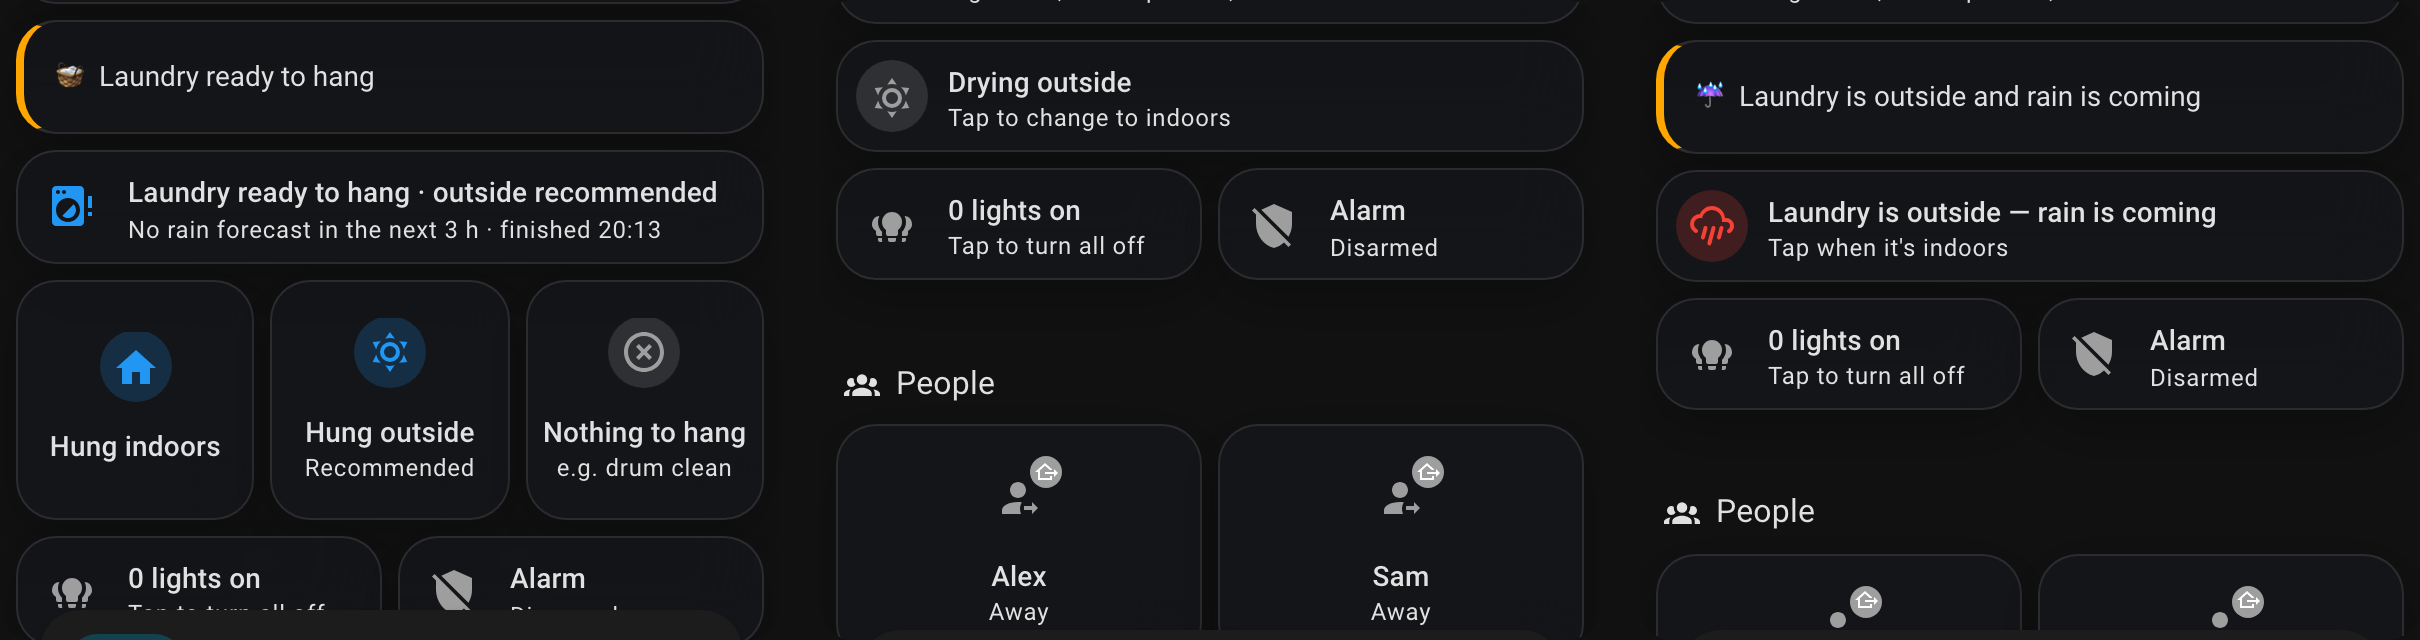
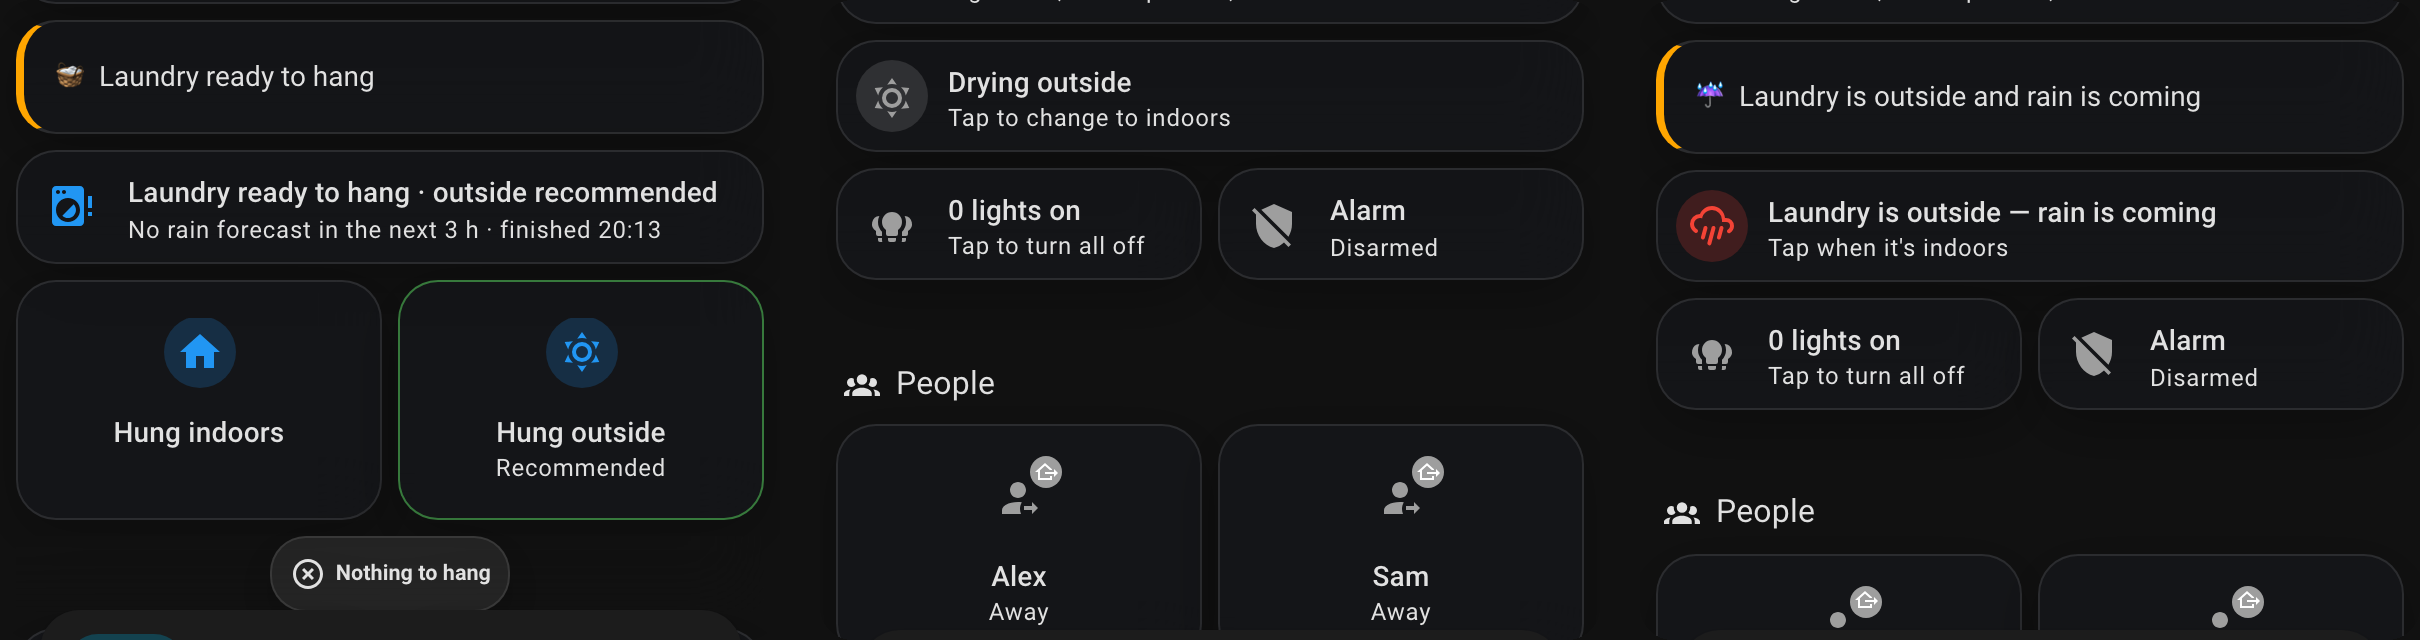
Laundry cards: two equal choices with a labelled recommendation, Nothing to hang as a chip (#19)
The review's verdict on a Hung pop-up: **no**. A pop-up on one screen
only needs browser_mod or Bubble Card, which would be a new required
dependency, and it adds a tap. Instead, this makes the inline choice
clearer.

![Phone: ready to hang → drying outside →
rain](https://github.com/davidteles/ha-wall-panel-kit/blob/feat/laundry-highlight/docs/images/laundry-sequence.png?raw=true)

## What changes
- **Hung indoors / Hung outside** are the same size, half each.
- **The recommended one** says *Recommended* and has a subtle border
(card-mod), so it doesn't rely on colour alone. With no reliable
forecast, neither is highlighted. Nothing is preselected: only a tap
confirms.
- **Nothing to hang** becomes a smaller chip and keeps its confirmation.
- **Every button passes `step`:** `hung` for answers, `move` on the
rack. A late tap can't overwrite a phone answer. This needs
ha-blueprints' **Laundry hung** with `step` (davidteles/ha-blueprints,
fix/laundry-hung-step). Without it, the old behaviour stays.
- **Docs:** `docs/laundry.md` text and screenshot updated.

## Tested
- 57 tests pass locally, including that both choices are the same size,
the recommendation is a label (not a selection), and every button's step
is right.
- Screenshots from the sample home, for outside, indoors and unknown, on
tablet and phone.
- The same layout runs at home (iPad, Kiosk and Phone).

🤖 Generated with [Claude Code](https://claude.com/claude-code)

---------

diff --git a/tools/render.py b/tools/render.py
@@ -359,9 +359,12 @@ def _state(entity: str, state) -> dict:
 
 
 def _laundry_button(name: str, icon: str, place: str, script: str, visibility: list, color: str = "blue",
-                    secondary: str = "", columns: int = 4, confirm: str | None = None) -> dict:
-    """A button with no `entity`: tapping its icon can never toggle a helper by accident."""
-    action = {"action": "perform-action", "perform_action": script, "data": {"place": place}}
+                    secondary: str = "", columns: int = 4, confirm: str | None = None, step: str = "hung") -> dict:
+    """A button with no `entity`: tapping its icon can never toggle a helper by accident.
+
+    `step` tells the Laundry hung script what the tap means: "hung" (the answer, only while waiting) or
+    "move" (where it's drying, only once on the rack), so a late tap can't overwrite an answer."""
+    action = {"action": "perform-action", "perform_action": script, "data": {"place": place, "step": step}}
     if confirm:
         action["confirmation"] = {"text": confirm}
     card = {"type": "custom:mushroom-template-card", "primary": name, "icon": icon, "color": color,
@@ -397,12 +400,25 @@ def laundry_cards(home: dict) -> list[dict]:
         cards[0].update({"secondary": "Tap when it's out of the machine" + finished, "tap_action": off, "icon_tap_action": off})
         return cards
     script, place = l["script"], l["place"]
-    rec = lambda choice, other: adv + f"{{{{ 'Recommended' if a[0] == '{choice}' else '{other}' }}}}"
+
+    def choice(name: str, icon: str, place_name: str, advice: str) -> dict:
+        """Indoors / Outside: the same size; the recommended one gets a 'Recommended' label and a subtle
+        accent border (card-mod). Advice only: nothing is preselected, a tap is the only confirmation."""
+        b = _laundry_button(name, icon, place_name, script, waiting, columns=6,
+                            secondary=adv + f"{{{{ 'Recommended' if a[0] == '{advice}' else '\u200b' }}}}")  # same height either way: a zero-width space survives template trimming
+        b["card_mod"] = {"style": adv + "ha-card { {% if a[0] == '" + advice + "' %}border: 1.5px solid rgba(76, 175, 80, 0.65) !important;{% endif %} }"}
+        return b
+
+    nothing = {"action": "perform-action", "perform_action": script, "data": {"place": "Not hung", "step": "hung"},
+               "confirmation": {"text": "Nothing to hang from this cycle?"}}
     cards += [
-        _laundry_button("Hung indoors", "mdi:home", "Indoors", script, waiting, secondary=rec("indoors", "")),
-        _laundry_button("Hung outside", "mdi:weather-sunny", "Outside", script, waiting, secondary=rec("outdoors", "")),
-        _laundry_button("Nothing to hang", "mdi:close-circle-outline", "Not hung", script, waiting, color="grey",
-                        secondary="e.g. drum clean", confirm="Nothing to hang from this cycle?"),
+        choice("Hung indoors", "mdi:home", "Indoors", "indoors"),
+        choice("Hung outside", "mdi:weather-sunny", "Outside", "outdoors"),
+        # A secondary action, smaller than the two choices (chips have no entity, so no icon toggle).
+        {"type": "custom:mushroom-chips-card", "alignment": "center", "visibility": waiting,
+         "grid_options": {"columns": 12},
+         "chips": [{"type": "template", "icon": "mdi:close-circle-outline", "content": "Nothing to hang",
+                    "tap_action": nothing, "hold_action": {"action": "none"}}]},
     ]
     if l.get("on_rack"):
         not_set = [_state(l["on_rack"], "on"), _state(place, l.get("not_set_option", "Not set"))]
@@ -413,9 +429,9 @@ def laundry_cards(home: dict) -> list[dict]:
             "tap_action": {"action": "none"}, "icon_tap_action": {"action": "none"},
             "visibility": not_set, "grid_options": {"columns": 12},
         },
-            _laundry_button("Indoors", "mdi:home", "Indoors", script, not_set, columns=6),
-            _laundry_button("Outside", "mdi:weather-sunny", "Outside", script, not_set, columns=6)]
-        change = {"action": "perform-action", "perform_action": script, "data": {"place": "Change"},
+            _laundry_button("Indoors", "mdi:home", "Indoors", script, not_set, columns=6, step="move"),
+            _laundry_button("Outside", "mdi:weather-sunny", "Outside", script, not_set, columns=6, step="move")]
+        change = {"action": "perform-action", "perform_action": script, "data": {"place": "Change", "step": "move"},
                   "confirmation": {"text": "Change where the laundry is drying?"}}
         drying = [_state(l["on_rack"], "on"), _state(place, ["Indoors", "Outside"])]
         if l.get("rain_alert"):
@@ -429,7 +445,7 @@ def laundry_cards(home: dict) -> list[dict]:
             "visibility": drying, "grid_options": {"columns": 12},
         })
     if l.get("rain_alert"):
-        inside = {"action": "perform-action", "perform_action": script, "data": {"place": "Indoors"}}
+        inside = {"action": "perform-action", "perform_action": script, "data": {"place": "Indoors", "step": "move"}}
         cards.append({
             "type": "custom:mushroom-template-card", "icon": "mdi:weather-pouring", "color": "red",
             "primary": "Laundry is outside — rain is coming",

diff --git a/tests/test_render.py b/tests/test_render.py
@@ -220,7 +220,8 @@ def test_quick_replies_speak_through_the_doorbell():
                                       "data": {"media_player_entity_id": "media_player.doorbell_speaker", "message": "Coming!"}}
     page = next(v for v in dash["views"] if v["path"] == "entry")
     assert any(c.get("type") == "custom:mushroom-chips-card" for c in page["sections"][0]["cards"])
-    assert not any(c.get("type") == "custom:mushroom-chips-card" for c in all_cards(render.tablet(FULL))), "only when configured"
+    assert not any(c.get("type") == "custom:mushroom-chips-card" and "tts.speak" in str(c)
+                   for c in all_cards(render.tablet(FULL))), "only when configured"
 
 
 LAUNDRY = FULL["laundry"]
@@ -236,10 +237,15 @@ def test_laundry_cards_on_home(build):
     cards = laundry_cards_of(build(FULL))
     names = [c.get("primary", "") for c in cards]
     assert any("Laundry ready to hang" in n for n in names)
-    for name, place in (("Hung indoors", "Indoors"), ("Hung outside", "Outside"), ("Nothing to hang", "Not hung")):
+    for name, place in (("Hung indoors", "Indoors"), ("Hung outside", "Outside")):
         b = next(c for c in cards if c.get("primary") == name)
-        assert b["tap_action"]["perform_action"] == LAUNDRY["script"] and b["tap_action"]["data"] == {"place": place}
+        assert b["tap_action"]["perform_action"] == LAUNDRY["script"] and b["tap_action"]["data"] == {"place": place, "step": "hung"}
         assert b["visibility"] == [{"condition": "state", "entity": LAUNDRY["waiting"], "state": "on"}]
+        assert b["grid_options"]["columns"] == 6, "both choices the same size"
+    chips = next(c for c in cards if c.get("type") == "custom:mushroom-chips-card")
+    nothing = chips["chips"][0]
+    assert nothing["content"] == "Nothing to hang" and nothing["tap_action"]["data"] == {"place": "Not hung", "step": "hung"}
+    assert nothing["tap_action"]["confirmation"], "Nothing to hang keeps its confirmation"
     assert "Laundry on the rack — where is it drying?" in names
     assert any(n.startswith("Drying {{") for n in names)
     assert "Laundry is outside — rain is coming" in names
@@ -249,7 +255,8 @@ def test_laundry_buttons_have_no_entity_and_the_icon_does_the_same():
     """A Mushroom template card with an entity toggles it when the icon is tapped: never on these."""
     for c in laundry_cards_of(render.tablet(FULL)):
         assert "entity" not in c, c.get("primary")
-        assert c.get("icon_tap_action") == c.get("tap_action"), c.get("primary")
+        if c.get("type") == "custom:mushroom-template-card":
+            assert c.get("icon_tap_action") == c.get("tap_action"), c.get("primary")
 
 
 def test_laundry_strip_lines():
@@ -269,3 +276,25 @@ def test_laundry_without_the_dropdown_is_one_tap_when_its_out():
 
 def test_no_laundry_section_no_laundry_cards():
     assert not laundry_cards_of(render.tablet(ONE_ROOM))
+
+
+def test_recommended_choice_is_labelled_not_preselected():
+    cards = laundry_cards_of(render.tablet(FULL))
+    inside = next(c for c in cards if c.get("primary") == "Hung indoors")
+    outside = next(c for c in cards if c.get("primary") == "Hung outside")
+    # The label and the accent depend on the advice text only; nothing is selected or called until a tap.
+    assert "'Recommended' if a[0] == 'indoors'" in inside["secondary"]
+    assert "'Recommended' if a[0] == 'outdoors'" in outside["secondary"]
+    assert "a[0] == 'outdoors'" in outside["card_mod"]["style"] and "border" in outside["card_mod"]["style"]
+    for b in (inside, outside):
+        assert b["tap_action"]["action"] == "perform-action" and "confirmation" not in b["tap_action"]
+
+
+def test_rack_buttons_are_moves_not_answers():
+    """A late tap on a 'Hung …' button can't overwrite an answer; buttons on the rack are moves."""
+    cards = laundry_cards_of(render.tablet(FULL))
+    for name in ("Indoors", "Outside", "Laundry is outside — rain is coming"):
+        b = next(c for c in cards if c.get("primary") == name)
+        assert b["tap_action"]["data"]["step"] == "move", name
+    change = next(c for c in cards if str(c.get("primary", "")).startswith("Drying {{"))
+    assert change["tap_action"]["data"] == {"place": "Change", "step": "move"}

diff --git a/docs/laundry.md b/docs/laundry.md
@@ -12,12 +12,12 @@ When the wash is done, Home says so with the drying advice and three buttons. On
 
 | When | On Home |
 |---|---|
-| **Wash done** | "Laundry ready to hang · outside recommended", with the reason and the finish time. Then **Hung indoors**, **Hung outside** and **Nothing to hang** (with a confirmation). The recommended one says *Recommended*. The attention strip says 🧺 *Laundry ready to hang*. |
+| **Wash done** | "Laundry ready to hang · outside recommended", with the reason and the finish time. Then **Hung indoors** and **Hung outside**, the same size. The recommended one says *Recommended* and has a subtle border; with no reliable forecast, neither is highlighted, and nothing is preselected. **Nothing to hang** is a smaller chip below, with a confirmation. The attention strip says 🧺 *Laundry ready to hang*. |
 | **On the rack, nobody chose** | "Laundry on the rack — where is it drying?" with **Indoors** / **Outside** |
 | **Drying** | "Drying outside · tap to change to indoors", with a confirmation |
 | **Rain is coming while it's outside** | A red card "Laundry is outside — rain is coming · tap when it's indoors". The strip says ☔ *Laundry is outside and rain is coming*. |
 
-The buttons have no entity, so tapping an icon does exactly what tapping the card does.
+The buttons have no entity, so tapping an icon does exactly what tapping the card does. Each button tells the Laundry hung script whether it's an answer (`step: hung`) or a change of place (`step: move`). So if a phone answer arrived first, a late tap on a dashboard can't overwrite it. This needs ha-blueprints' Laundry hung script with the `step` field.
 
 ## What it needs
 
